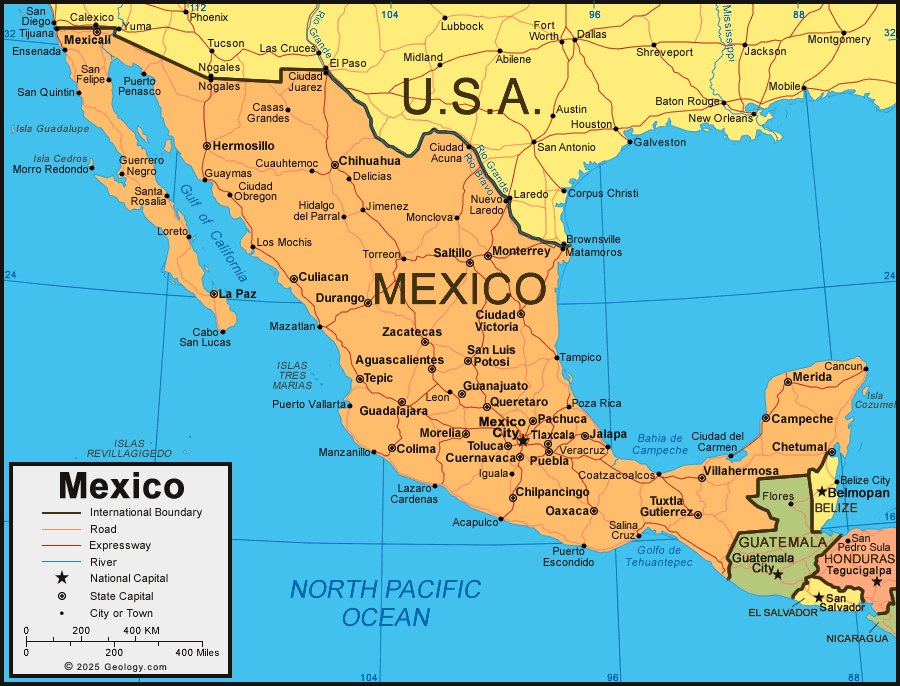
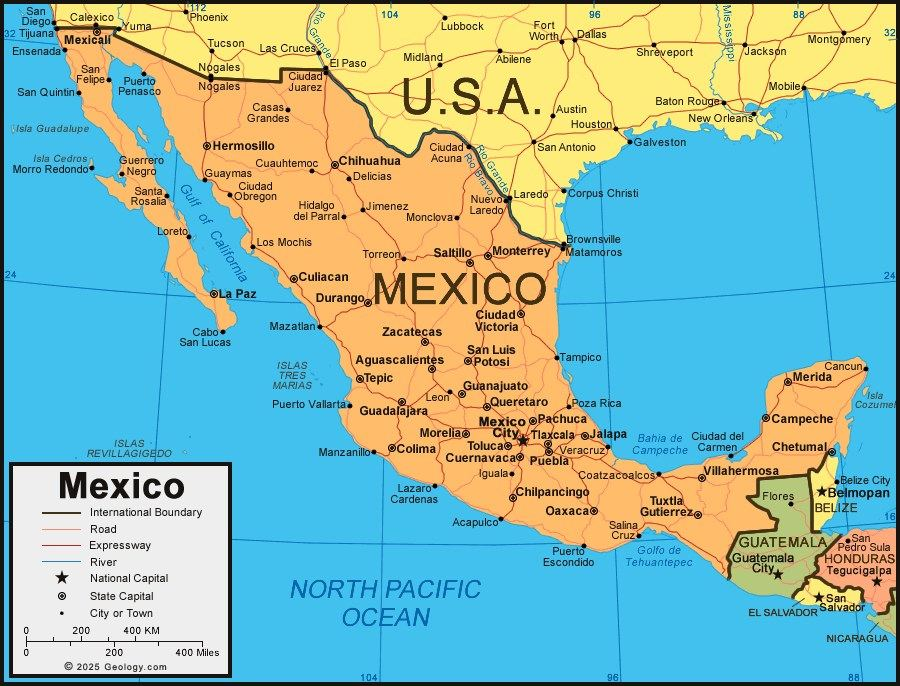
Speed up image loading: compress assets and preload the splash photo
Resize/recompress the large portrait photos and both country maps
(splash.jpg and bg-photo.jpg go from ~380/320KB down to ~200KB each),
and preload the splash and background photos in the document head so
the browser starts fetching them immediately instead of waiting for
the app's JS to run first.

Claude-Session: https://claude.ai/code/session_01BcwEABGcGUjKGFScAvZJLu

diff --git a/app/layout.tsx b/app/layout.tsx
@@ -23,6 +23,8 @@ export default function RootLayout({ children }: { children: React.ReactNode }) 
           href="https://fonts.googleapis.com/css2?family=Fraunces:ital,opsz,wght@0,9..144,400;0,9..144,600;0,9..144,700;1,9..144,600;1,9..144,700&family=Poppins:wght@400;500;600;700&display=swap"
           rel="stylesheet"
         />
+        <link rel="preload" as="image" href="/images/splash.jpg" />
+        <link rel="preload" as="image" href="/images/bg-photo.jpg" />
       </head>
       <body style={{ margin: 0 }}>{children}</body>
     </html>
